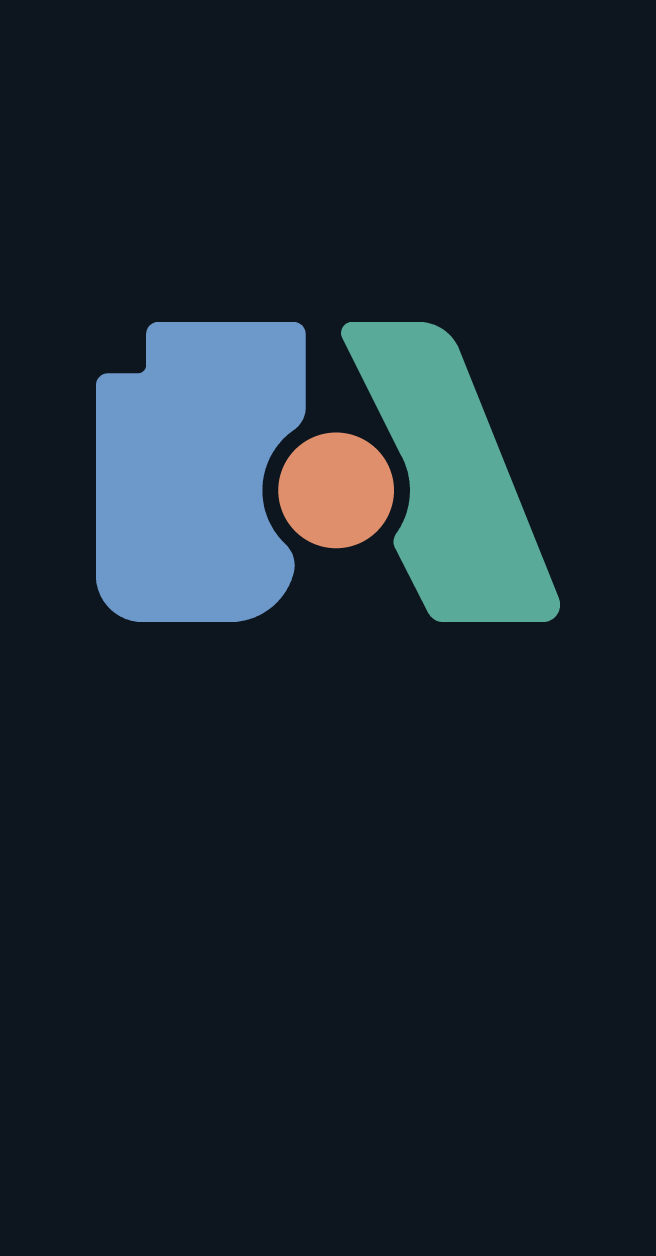
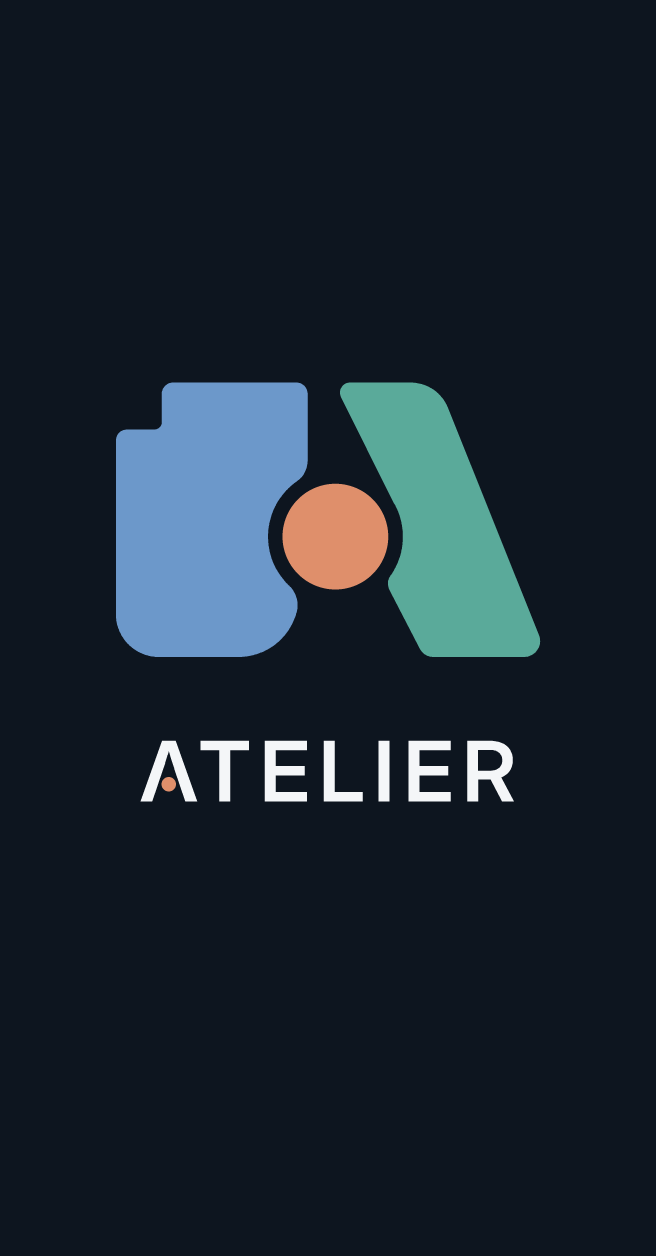
P4b.4 installer plates carry the lockup
The welcome and finish plates now show the master A over the wordmark, centred
a little above the middle, in Paper and Charcoal like the app's header. The
wordmark is drawn from its own outlines, so the plates match the app exactly,
and installer_art.py --check still verifies every pixel. Only the artwork
changes: what the installer installs, and where, stays the same.

Changed region(s): [[0.122, 0.2484, 0.8537, 0.5279], [0.2134, 0.59, 0.5488, 0.6521], [0.5793, 0.59, 0.7927, 0.6521]]

diff --git a/scripts/installer_art.py b/scripts/installer_art.py
@@ -1,42 +1,109 @@
 #!/usr/bin/env python3
 """Deterministic, DPI-ready Atelier installer plates; no runtime installer changes.
 
-The plate is a plain field with the mark on it. All copy remains native wizard text, so it
-scales and is available to accessibility. Run this script to regenerate assets; use --check
-to verify packaged pixels. packaging/Atelier.iss gives the wizard the same two field colours.
+The plate is a plain field with the lockup on it: the master mark over the wordmark, centred.
+All copy remains native wizard text, so it scales and is available to accessibility. Run this
+script to regenerate assets; use --check to verify packaged pixels. packaging/Atelier.iss gives
+the wizard the same two field colours.
 """
 import argparse
+import re
 from pathlib import Path
 
-from PIL import Image
+from PIL import Image, ImageChops, ImageDraw
 
 import brand_mark
 
 ROOT = Path(__file__).resolve().parents[1]
 OUT = ROOT / 'gui' / 'brand' / 'installer'
-THEMES = {'light': brand_mark.PAPER, 'dark': brand_mark.CHARCOAL}
+WORDMARK = ROOT / 'gui' / 'brand' / 'atelier-wordmark.svg'
+# Field and wordmark ink for each theme.
+THEMES = {'light': (brand_mark.PAPER, brand_mark.CHARCOAL), 'dark': (brand_mark.CHARCOAL, brand_mark.PAPER)}
 WIDTH, HEIGHT = 164, 314
-MARK_WIDTH = 116
-MARK_CENTRE_Y = 118
+MARK_WIDTH = 106
+WORD_WIDTH = 94
+GAP = 21                 # between the mark's foot and the wordmark's cap line
+LOCKUP_CENTRE_Y = 148    # a little above the middle, where the eye puts the centre of a tall plate
+SCALE = 4                # 4x output supplies crisp edges well beyond 200% Windows scaling
+SS = 4                   # supersampling on top of that, reduced away
+
+
+def _wordmark():
+    """The wordmark's outlines as flattened subpaths, its view box size and its disc."""
+    svg = WORDMARK.read_text(encoding='utf-8')
+    _, _, vw, vh = (float(v) for v in re.search(r'viewBox="([^"]+)"', svg).group(1).split())
+    d = re.search(r' d="([^"]+)"', svg).group(1)
+    disc = re.search(r'<circle fill="([^"]+)" cx="([^"]+)" cy="([^"]+)" r="([^"]+)"', svg)
+    subpaths, point, start = [], (0.0, 0.0), (0.0, 0.0)
+    for command, args in re.findall(r'([MLHVCZ])([^MLHVCZ]*)', d):
+        n = [float(v) for v in re.findall(r'-?\d+(?:\.\d+)?', args)]
+        if command == 'M':
+            point = start = (n[0], n[1])
+            subpaths.append([point])
+            for i in range(2, len(n), 2):
+                point = (n[i], n[i + 1]); subpaths[-1].append(point)
+        elif command == 'L':
+            for i in range(0, len(n), 2):
+                point = (n[i], n[i + 1]); subpaths[-1].append(point)
+        elif command == 'H':
+            for x in n:
+                point = (x, point[1]); subpaths[-1].append(point)
+        elif command == 'V':
+            for y in n:
+                point = (point[0], y); subpaths[-1].append(point)
+        elif command == 'C':
+            for i in range(0, len(n), 6):
+                (x1, y1), (x2, y2), (x3, y3), (x0, y0) = (n[i], n[i + 1]), (n[i + 2], n[i + 3]), (n[i + 4], n[i + 5]), point
+                for k in range(1, 25):
+                    t = k / 24; u = 1 - t
+                    subpaths[-1].append((u**3 * x0 + 3 * u * u * t * x1 + 3 * u * t * t * x2 + t**3 * x3,
+                                         u**3 * y0 + 3 * u * u * t * y1 + 3 * u * t * t * y2 + t**3 * y3))
+                point = (x3, y3)
+        elif command == 'Z':
+            point = start
+    return subpaths, (vw, vh), (disc.group(1), *(float(disc.group(i)) for i in (2, 3, 4)))
+
+
+def _layout():
+    """Top left and scale of the mark and the wordmark, in plate units."""
+    mw, mh = brand_mark._mark_size(brand_mark.MASTER)
+    _, (vw, vh), _ = _wordmark()
+    mark_h, word_h = MARK_WIDTH * mh / mw, WORD_WIDTH * vh / vw
+    top = LOCKUP_CENTRE_Y - (mark_h + GAP + word_h) / 2
+    return ((WIDTH - MARK_WIDTH) / 2, top, MARK_WIDTH / mw), ((WIDTH - WORD_WIDTH) / 2, top + mark_h + GAP, WORD_WIDTH / vw)
 
 
 def plate(theme):
-    # 4x output supplies crisp edges well beyond 200% Windows scaling.
-    image = Image.new('RGB', (WIDTH * 4, HEIGHT * 4), THEMES[theme])
-    mark = brand_mark.raster(MARK_WIDTH * 4)
-    image.paste(mark, ((WIDTH * 4 - mark.width) // 2, MARK_CENTRE_Y * 4 - mark.height // 2), mark)
-    return image
+    field, ink = THEMES[theme]
+    k = SCALE * SS
+    (mx, my, ms), (wx, wy, ws) = _layout()
+    image = Image.new('RGBA', (WIDTH * k, HEIGHT * k), brand_mark._rgb(field) + (255,))
+    brand_mark.draw_mark(ImageDraw.Draw(image), brand_mark.MASTER, mx * k, my * k, ms * k)
+    # Even-odd fill: letters never overlap, so each outline toggles the pixels it covers.
+    subpaths, _, (disc_fill, cx, cy, r) = _wordmark()
+    mask = Image.new('L', image.size, 0)
+    for poly in subpaths:
+        shape = Image.new('L', image.size, 0)
+        ImageDraw.Draw(shape).polygon([((wx + x * ws) * k, (wy + y * ws) * k) for x, y in poly], fill=255)
+        mask = ImageChops.difference(mask, shape)
+    image.paste(brand_mark._rgb(ink) + (255,), (0, 0), mask)
+    x, y, rr = (wx + cx * ws) * k, (wy + cy * ws) * k, r * ws * k
+    ImageDraw.Draw(image).ellipse([x - rr, y - rr, x + rr, y + rr], fill=brand_mark._rgb(disc_fill) + (255,))
+    return image.reduce(SS).convert('RGB')
 
 
 def vector(theme):
-    art, (x0, y0, x1, y1), _, _ = brand_mark.mark_svg(brand_mark.MASTER)
-    scale = MARK_WIDTH / (x1 - x0)
-    x, y = (WIDTH - MARK_WIDTH) / 2 - x0 * scale, MARK_CENTRE_Y - (y1 - y0) * scale / 2 - y0 * scale
+    field, ink = THEMES[theme]
+    art, (x0, y0, _, _), _, _ = brand_mark.mark_svg(brand_mark.MASTER)
+    (mx, my, ms), (wx, wy, ws) = _layout()
     pieces = art[art.index('>') + 1:art.rindex('</svg>')]
+    word = WORDMARK.read_text(encoding='utf-8')
+    word = word[word.index('>') + 1:word.rindex('</svg>')].replace(f'fill="{brand_mark.PAPER}"', f'fill="{ink}"')
     return ('<!-- Generated by scripts/installer_art.py; text stays native. -->\n'
             f'<svg xmlns="http://www.w3.org/2000/svg" viewBox="0 0 {WIDTH} {HEIGHT}">'
-            f'<rect width="{WIDTH}" height="{HEIGHT}" fill="{THEMES[theme]}"/>'
-            f'<g transform="translate({x:.3f} {y:.3f}) scale({scale:.5f})">{pieces}</g></svg>\n')
+            f'<rect width="{WIDTH}" height="{HEIGHT}" fill="{field}"/>'
+            f'<g transform="translate({mx - x0 * ms:.3f} {my - y0 * ms:.3f}) scale({ms:.5f})">{pieces}</g>'
+            f'<g transform="translate({wx:.3f} {wy:.3f}) scale({ws:.6f})">{word}</g></svg>\n')
 
 
 def outputs():

diff --git a/docs/motion-v2/HANDOFF.md b/docs/motion-v2/HANDOFF.md
@@ -275,8 +275,11 @@ one is a set of taste calls: prototype the options, show them, and wait for his 
   with its message. A follow-up pass, run on fixture data, brought in the asset editors, the
   dead CSS, padding, margins and gaps across the stylesheets, editor headings and fields, and
   sentence-case copy.
-- [ ] **P4b.4** ⏸ Installer. A new look for the Windows installer (`packaging/`), in the
+- [x] **P4b.4** ⏸ Installer. A new look for the Windows installer (`packaging/`), in the
   same identity. Packaging only: no change to what it installs or where.
+  Thiago chose the lockup: the welcome and finish plates carry the master A over the
+  wordmark, centred a little above the middle, in Paper and Charcoal. Inner pages keep the A
+  in their header. Shown as mockups, since Inno Setup isn't installed on the build machine.
 - [ ] **P4b.5** ⏸ Studio colours. The texture, mesh and material studios each take their
   piece's colour across the whole module (blue tile, teal mesh, copper disc), so it's clear
   at a glance what you're working on. Keep text and controls readable on every theme.

diff --git a/docs/DESIGN_SYSTEM.md b/docs/DESIGN_SYSTEM.md
@@ -220,7 +220,8 @@ beside the glyph always says what happened. The rules and their ten invariants a
 - Toolbar, menu and form controls keep Material Sharp glyphs.
 
 The Windows installer uses native scalable controls with paired Paper and Charcoal
-plates, each a plain field with the mark. The wizard follows the system light/dark
+plates, each a plain field with the lockup centred on it: the master A over the wordmark,
+as in the app's header. Inner pages carry the A alone in their header. The wizard follows the system light/dark
 appearance, keeps installation progress native, and leaves installation, upgrade and
 data-preservation behaviour unchanged. `scripts/installer_art.py --check` verifies the
 deterministic high-resolution plates and transparent header mark, and
